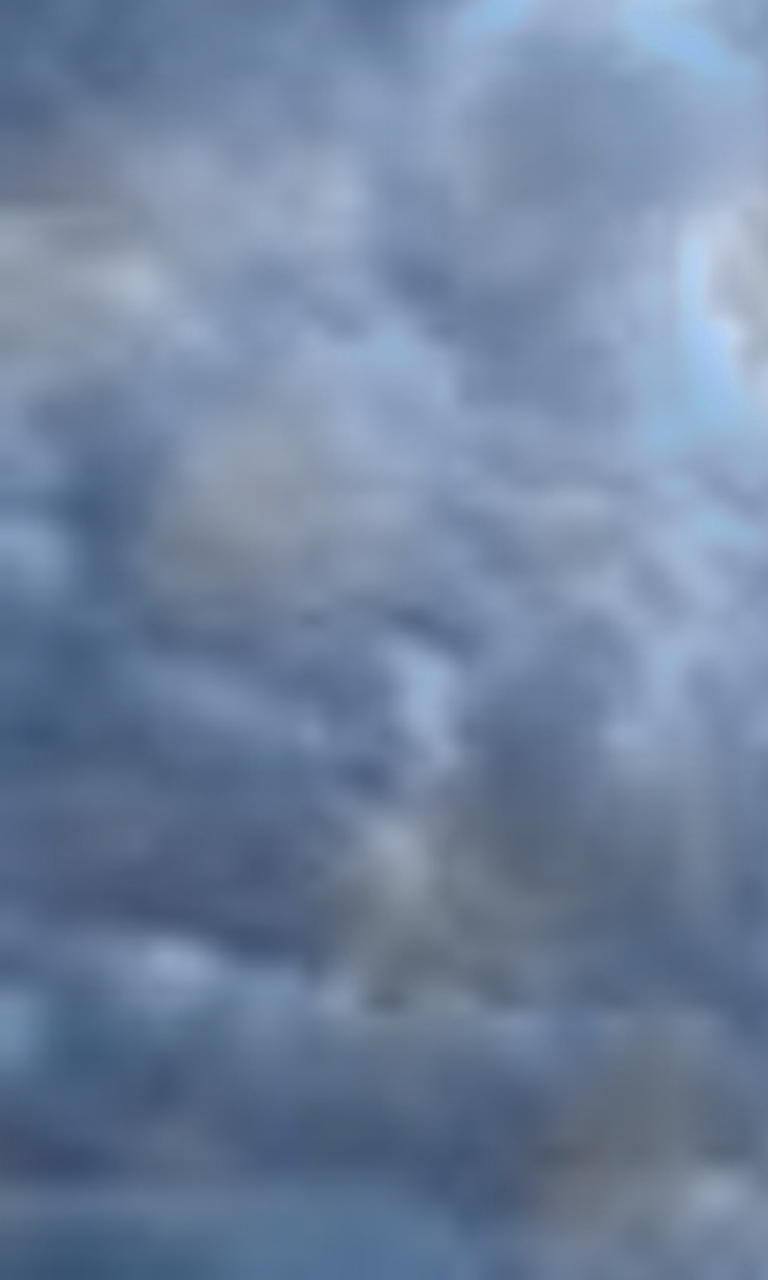
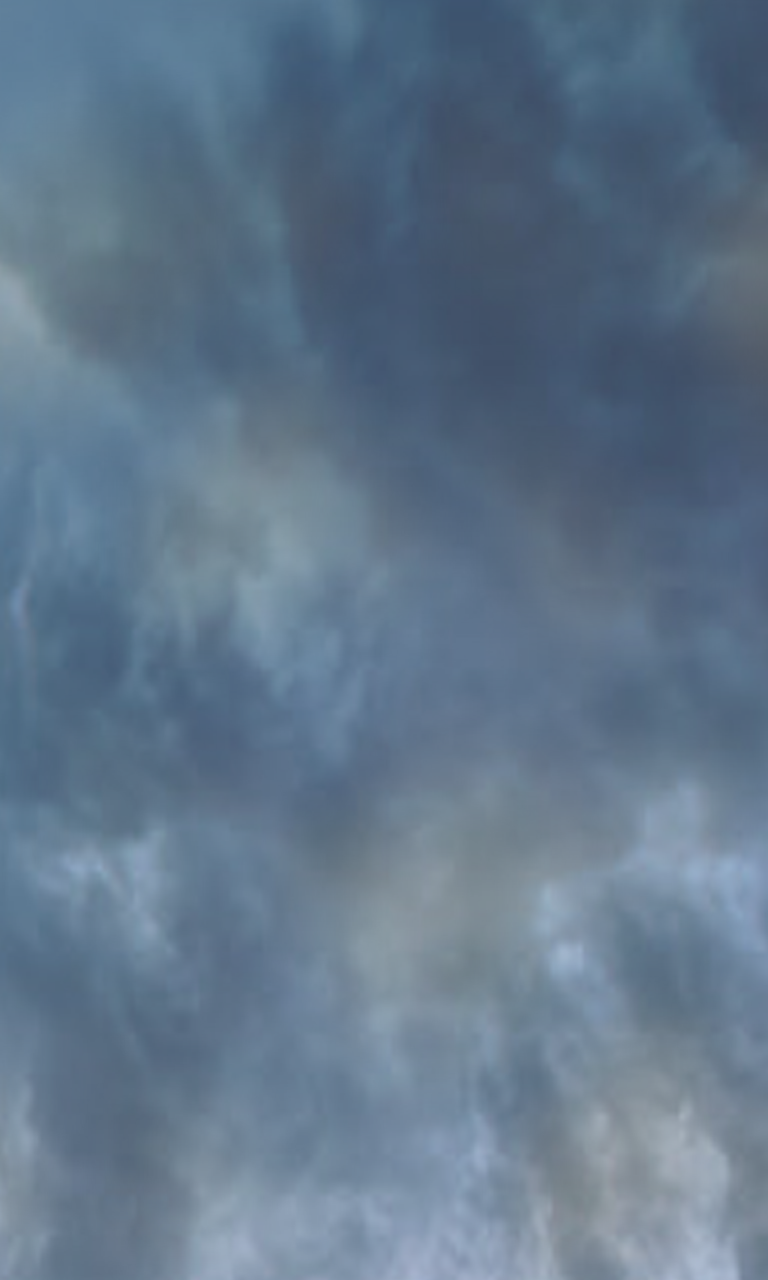
Call onPause in onBackPressed & onResume in cancel. Replaced Background image.

diff --git a/IceAspirations-android/src/com/tanyelbariser/iceaspirations/android/AndroidLauncher.java b/IceAspirations-android/src/com/tanyelbariser/iceaspirations/android/AndroidLauncher.java
@@ -18,15 +18,21 @@ public class AndroidLauncher extends AndroidApplication {
 	}
 	@Override
 	public void onBackPressed() {
+		onPause();
 	    new AlertDialog.Builder(this)
 	        .setTitle("Confirm Exit")
 	        .setMessage("Do you want to quit the game?")
-	        .setNegativeButton(android.R.string.cancel, null)
+	        .setNegativeButton(android.R.string.cancel, new OnClickListener() {
+	        	@Override
+	        	public void onClick(DialogInterface dialog, int which) {
+	        		onResume();
+	        	}
+	        })
 	        .setPositiveButton(android.R.string.ok, new OnClickListener() {
-
-	            public void onClick(DialogInterface arg0, int arg1) {
-	            	AndroidLauncher.super.onBackPressed();
-	            }
+	        	@Override
+	        	public void onClick(DialogInterface dialog, int which) {
+	        		AndroidLauncher.super.onBackPressed();	
+	        	}
 	        }).create().show();
 	}
 }
